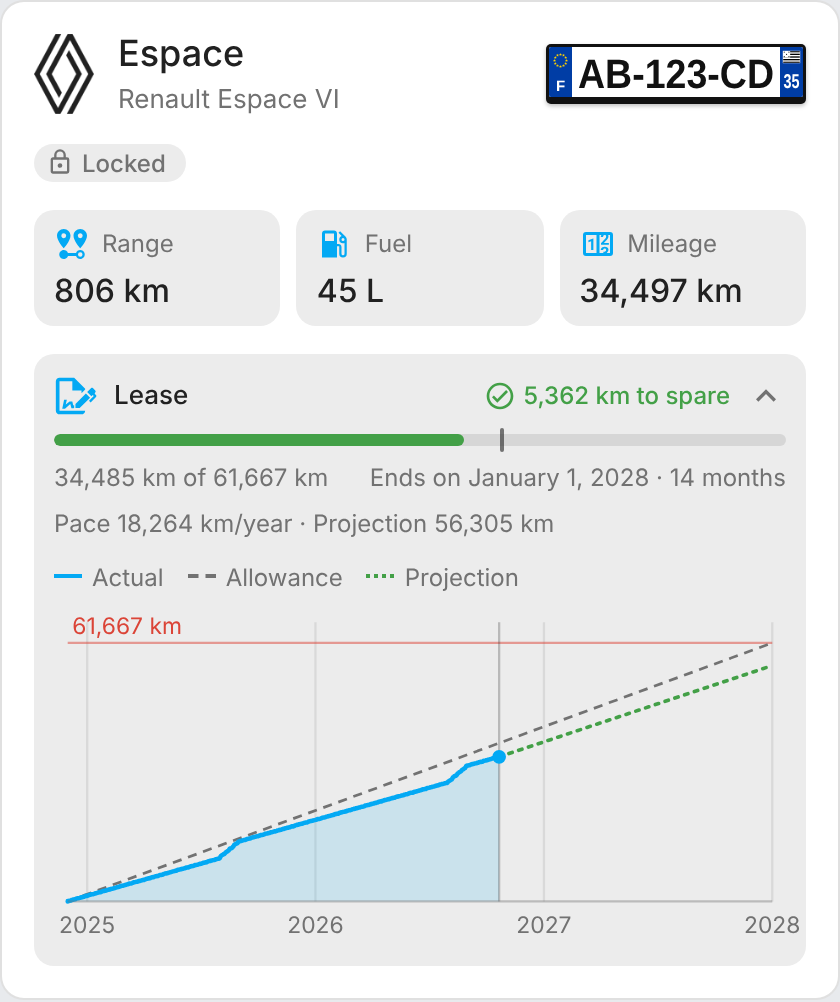
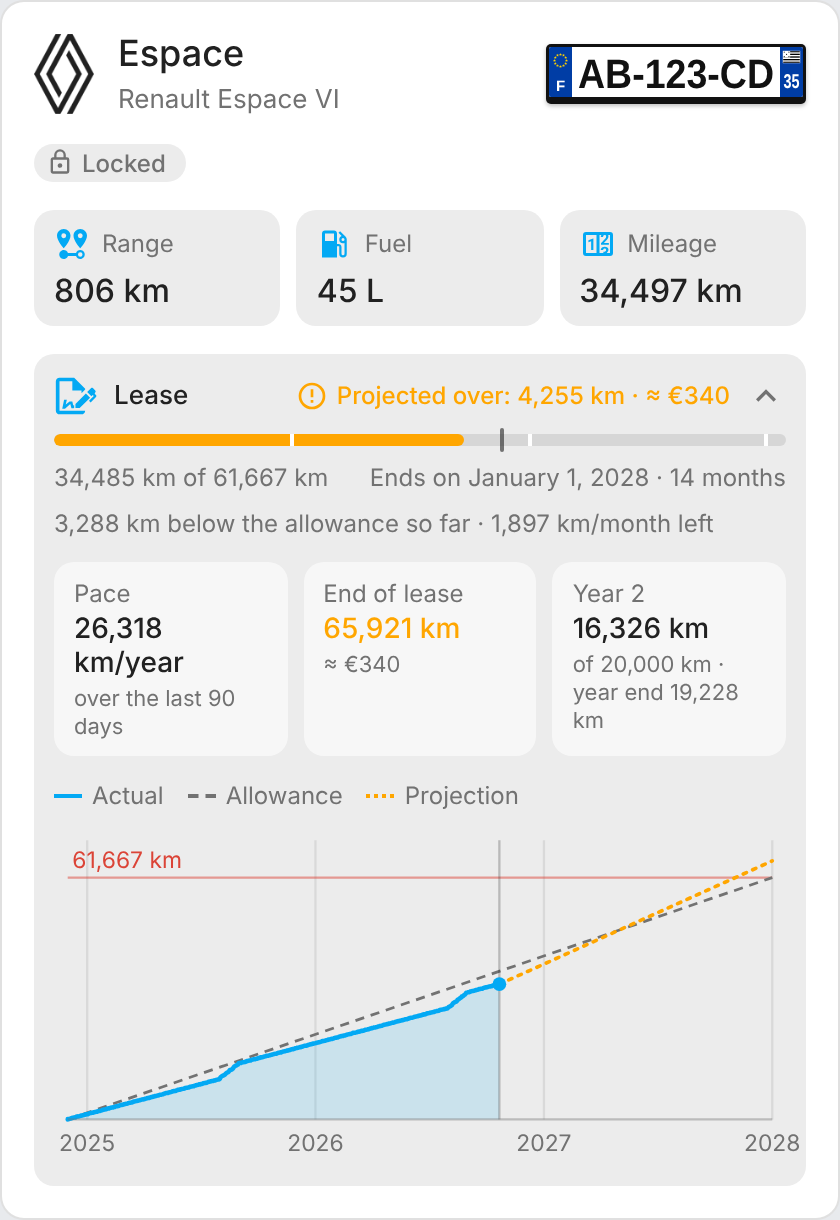
Lease: gap to allowance, monthly budget, recent-pace forecast, cost, contract year
- Folded: km above/below the allowance line today and km/month left
- lease.forecast (30 or 90 days) projects from the recent pace
- lease.extra_km_cost adds the estimated cost of the excess to the status
- Unfolded: pace, end-of-lease projection and current contract year
- Contract year ticks on the progress bar

Claude-Session: https://claude.ai/code/session_01QcG8izGUvhTVoeHTNYP8Bn

diff --git a/src/renault-card.js b/src/renault-card.js
@@ -90,6 +90,18 @@ var RnI18n = {
     lease_warn: 'Dépassement prévu : {k}',
     lease_over: 'Forfait dépassé de {k}',
     lease_early: 'Trop tôt pour une projection',
+    lease_above: '{k} au-dessus du forfait à ce jour',
+    lease_below: '{k} sous le forfait à ce jour',
+    lease_budget: 'Reste {k}/mois',
+    lease_budget_none: 'Plus de km disponibles',
+    lease_pace_lbl: 'Rythme',
+    lease_per_year: '/an',
+    lease_recent: 'sur les {n} derniers jours',
+    lease_since_start: 'depuis le début',
+    lease_projection_lbl: 'Fin de LOA',
+    lease_year: 'Année {n}',
+    lease_year_sub: 'sur {t}',
+    lease_year_proj: 'fin d\'année {p}',
     lease_chart: 'Suivi du kilométrage',
     lease_legend_actual: 'Réel',
     lease_legend_allowed: 'Forfait',
@@ -102,6 +114,12 @@ var RnI18n = {
     ed_km_per_year: 'Kilométrage par an',
     ed_start_mileage: 'Kilométrage à la livraison',
     ed_start_mileage_helper: '0 par défaut',
+    ed_forecast: 'Base de la projection',
+    ed_extra_km_cost: 'Coût du km supplémentaire',
+    ed_extra_km_cost_helper: 'Affiche le coût estimé du dépassement',
+    forecast_contract: 'Moyenne depuis le début',
+    forecast_90: '90 derniers jours',
+    forecast_30: '30 derniers jours',
   },
   en: {
     vehicle: 'Vehicle',
@@ -175,6 +193,18 @@ var RnI18n = {
     lease_warn: 'Projected over: {k}',
     lease_over: 'Allowance exceeded by {k}',
     lease_early: 'Too early for a projection',
+    lease_above: '{k} above the allowance so far',
+    lease_below: '{k} below the allowance so far',
+    lease_budget: '{k}/month left',
+    lease_budget_none: 'No kilometres left',
+    lease_pace_lbl: 'Pace',
+    lease_per_year: '/year',
+    lease_recent: 'over the last {n} days',
+    lease_since_start: 'since the start',
+    lease_projection_lbl: 'End of lease',
+    lease_year: 'Year {n}',
+    lease_year_sub: 'of {t}',
+    lease_year_proj: 'year end {p}',
     lease_chart: 'Mileage tracking',
     lease_legend_actual: 'Actual',
     lease_legend_allowed: 'Allowance',
@@ -187,6 +217,12 @@ var RnI18n = {
     ed_km_per_year: 'Mileage per year',
     ed_start_mileage: 'Mileage at delivery',
     ed_start_mileage_helper: 'Defaults to 0',
+    ed_forecast: 'Projection based on',
+    ed_extra_km_cost: 'Cost per extra km',
+    ed_extra_km_cost_helper: 'Shows the estimated cost of the excess',
+    forecast_contract: 'Average since the start',
+    forecast_90: 'Last 90 days',
+    forecast_30: 'Last 30 days',
   },
 };
 
@@ -372,27 +408,69 @@ function rnLeaseDates(lease) {
   return { start: new Date(y, mo, d), end: new Date(y, mo + months, d), months: months };
 }
 
-// Driven, allowance, pace and end-of-lease projection at time `now`.
-function rnLeaseStatus(lease, mileage, now) {
+var RN_DAY = 86400000;
+
+// Odometer at time t from the daily statistics ([day start, odometer at the end of that day]).
+function rnOdoAt(points, t) {
+  var hit = null;
+  (points || []).forEach(function (p) { if (p[0] + RN_DAY <= t + 3600000) hit = p; });
+  return hit ? hit[1] : null;
+}
+
+// Status of the lease at time `now`. points: daily mileage statistics, used for the
+// recent pace (forecast: 30 or 90 days) and the contract year figures.
+function rnLeaseStatus(lease, mileage, now, points) {
   var dates = rnLeaseDates(lease);
   if (!dates || mileage == null || isNaN(mileage)) return null;
-  var DAY = 86400000;
-  var allowed = Number(lease.km_per_year) * dates.months / 12;
+  var kmYear = Number(lease.km_per_year);
+  var allowed = kmYear * dates.months / 12;
   var startKm = Number(lease.start_mileage) || 0;
   var driven = Math.max(0, mileage - startKm);
-  var total = (dates.end - dates.start) / DAY;
-  var elapsed = Math.max(0, Math.min(total, (now - dates.start) / DAY));
+  var total = (dates.end - dates.start) / RN_DAY;
+  var elapsed = Math.max(0, Math.min(total, (now - dates.start) / RN_DAY));
+  var left = total - elapsed;
   var ended = now >= dates.end;
-  // Below 30 days the pace says little: no projection yet.
-  var projected = ended ? driven : (elapsed >= 30 ? driven / elapsed * total : null);
+  var expected = total ? allowed * elapsed / total : 0;
+
+  // Daily rate: whole contract average, or the last 30 / 90 days from the statistics.
+  // Below 30 days of contract the pace says little: no projection yet.
+  var rate = elapsed >= 30 ? driven / elapsed : null, recent = false;
+  var days = Number(lease.forecast);
+  if ((days === 30 || days === 90) && elapsed >= days && points && points.length) {
+    var then = rnOdoAt(points, now - days * RN_DAY);
+    if (then != null && mileage >= then) { rate = (mileage - then) / days; recent = true; }
+  }
+  var projected = ended ? driven : (rate != null ? driven + rate * left : null);
+
+  // Contract year: runs from the start date, the last one ends with the lease.
+  var at = function (months) { return new Date(dates.start.getFullYear(), dates.start.getMonth() + months, dates.start.getDate()); };
+  var y = 0;
+  while (12 * (y + 1) < dates.months && now >= at(12 * (y + 1)).getTime()) y++;
+  var ys = at(12 * y), ye = at(Math.min(12 * (y + 1), dates.months));
+  var year = null;
+  var yStartKm = y === 0 ? startKm : rnOdoAt(points, ys.getTime());
+  if (yStartKm != null) {
+    var yMonths = Math.min(12 * (y + 1), dates.months) - 12 * y;
+    var yDriven = Math.max(0, mileage - yStartKm);
+    var yLeft = Math.max(0, (ye - now) / RN_DAY);
+    year = {
+      index: y + 1, start: ys, end: ye, allowed: kmYear * yMonths / 12, driven: yDriven,
+      projected: rate != null && !ended ? yDriven + rate * yLeft : null,
+    };
+  }
+  var budget = !ended && left > 0 ? (allowed - driven) / (left / 30.44) : null;
+
   var state = 'ok';
   if (driven > allowed) state = 'over';
   else if (projected != null && projected > allowed) state = 'warn';
+  var cost = Number(lease.extra_km_cost) || 0;
+  var excess = state === 'over' ? (ended ? driven : Math.max(driven, projected || 0)) - allowed : state === 'warn' ? projected - allowed : 0;
   return {
-    start: dates.start, end: dates.end, allowed: allowed, startKm: startKm, driven: driven, ended: ended,
-    expected: total ? allowed * elapsed / total : 0, elapsedRatio: total ? elapsed / total : 0,
-    pace: elapsed >= 30 ? driven / elapsed * 365.25 : null, projected: projected, state: state,
-    monthsLeft: Math.max(0, Math.round((dates.end - now) / DAY / 30.44)),
+    start: dates.start, end: dates.end, months: dates.months, allowed: allowed, startKm: startKm, driven: driven, ended: ended,
+    expected: expected, deviation: driven - expected, elapsedRatio: total ? elapsed / total : 0,
+    rate: rate, recent: recent, pace: rate != null ? rate * 365.25 : null, projected: projected, state: state,
+    budget: budget, year: year, excess: excess, cost: cost && excess > 0 ? excess * cost : null,
+    monthsLeft: Math.max(0, Math.round(left / 30.44)),
   };
 }
 
@@ -754,9 +832,24 @@ class RenaultCard extends HTMLElement {
 
   _km(n) { return this._fmtNum(Math.round(n)) + ' km'; }
 
+  _money(v) {
+    var cur = (this._hass.config && this._hass.config.currency) || 'EUR';
+    try { return new Intl.NumberFormat(this._lang(), { style: 'currency', currency: cur, maximumFractionDigits: 0 }).format(v); }
+    catch (e) { return this._fmtNum(v) + ' ' + cur; }
+  }
+
+  _leaseHist4(entityId, start) {
+    var h = this._leaseHist;
+    return h && h.key === entityId + '|' + start.getTime() ? h.points : null;
+  }
+
   _leaseHtml(ent) {
     var lease = this._config.lease;
-    var st = rnLeaseStatus(lease, this._num(ent.mileage), Date.now());
+    var dates = rnLeaseDates(lease);
+    if (!dates || !this._avail(ent.mileage)) return '';
+    // The statistics feed the chart, the recent pace and the contract year: fetched once an hour.
+    this._leaseFetch(dates.start, ent.mileage);
+    var st = rnLeaseStatus(lease, this._num(ent.mileage), Date.now(), this._leaseHist4(ent.mileage, dates.start));
     if (!st) return '';
     var color = st.state === 'over' ? 'var(--error-color, #db4437)' : st.state === 'warn' ? 'var(--warning-color, #ffa600)' : 'var(--success-color, #43a047)';
     var icon = st.state === 'ok' ? 'mdi:check-circle-outline' : 'mdi:alert-circle-outline';
@@ -765,34 +858,68 @@ class RenaultCard extends HTMLElement {
     else if (st.state === 'warn') status = this._t('lease_warn', { k: this._km(st.projected - st.allowed) });
     else if (st.projected != null) status = this._t('lease_ok_margin', { k: this._km(st.allowed - st.projected) });
     else status = this._t('lease_ok');
+    if (st.cost != null) status += ' · ≈ ' + this._money(st.cost);
     var endTxt = st.end.toLocaleDateString(this._lang(), { day: 'numeric', month: 'long', year: 'numeric' });
+
+    // Folded: deviation from the allowance line today, and the monthly budget left.
     var details = [];
-    if (st.pace != null && !st.ended) details.push(this._t('lease_pace', { p: this._km(st.pace) }));
-    if (st.projected != null && !st.ended) details.push(this._t('lease_projection', { p: this._km(st.projected) }));
-    if (st.projected == null) details.push(this._t('lease_early'));
+    if (!st.ended) {
+      var dev = Math.round(st.deviation);
+      details.push(this._t(dev > 0 ? 'lease_above' : 'lease_below', { k: this._km(Math.abs(dev)) }));
+      if (st.budget != null) details.push(st.budget > 0 ? this._t('lease_budget', { k: this._km(st.budget) }) : this._t('lease_budget_none'));
+    }
     var open = !!this._leaseOpen;
     var pct = st.allowed ? st.driven / st.allowed * 100 : 0;
     var marker = Math.max(0, Math.min(100, st.elapsedRatio * 100));
+    // Contract year ticks on the bar.
+    var ticks = '';
+    for (var m = 12; m < st.months; m += 12) ticks += '<span class="lease-tick" style="left:' + (m / st.months * 100).toFixed(1) + '%"></span>';
     return '<div class="lease lease-' + st.state + '">' +
       '<div class="lease-head" data-lease-toggle role="button" tabindex="0" aria-expanded="' + open + '">' +
       '<ha-icon class="lease-icon" icon="mdi:file-sign"></ha-icon><span class="plan-title">' + this._t('lease') + '</span>' +
       '<span class="lease-status" style="color:' + color + '"><ha-icon icon="' + icon + '"></ha-icon>' + rnEsc(status) + '</span>' +
       '<ha-icon class="chev" icon="' + (open ? 'mdi:chevron-up' : 'mdi:chevron-down') + '"></ha-icon></div>' +
-      '<div class="lease-bar">' + this._bar(pct, color) + '<span class="lease-mark" style="left:' + marker.toFixed(1) + '%"></span></div>' +
+      '<div class="lease-bar">' + this._bar(pct, color) + ticks + '<span class="lease-mark" style="left:' + marker.toFixed(1) + '%"></span></div>' +
       '<div class="plan-info"><span>' + rnEsc(this._t('lease_driven', { d: this._km(st.driven), t: this._km(st.allowed) })) + '</span>' +
       '<span>' + rnEsc(this._t('lease_ends', { d: endTxt }) + ' · ' + (st.ended ? this._t('lease_ended') : this._t('lease_months_left', { n: st.monthsLeft }))) + '</span></div>' +
       (details.length ? '<div class="plan-info"><span>' + rnEsc(details.join(' · ')) + '</span></div>' : '') +
-      (open ? this._leaseChart(st, ent.mileage) : '') + '</div>';
+      (open ? this._leaseDetails(st) + this._leaseChart(st, ent.mileage) : '') + '</div>';
+  }
+
+  _leaseFig(label, value, sub, warn) {
+    return '<div class="fig' + (warn ? ' warn' : '') + '"><span class="lbl">' + rnEsc(label) + '</span><span class="val">' + rnEsc(value) + '</span>' +
+      (sub ? '<span class="sub">' + rnEsc(sub) + '</span>' : '') + '</div>';
+  }
+
+  _leaseDetails(st) {
+    var figs = [];
+    if (st.pace != null && !st.ended) {
+      figs.push(this._leaseFig(this._t('lease_pace_lbl'), this._km(st.pace) + this._t('lease_per_year'),
+        st.recent ? this._t('lease_recent', { n: Number(this._config.lease.forecast) }) : this._t('lease_since_start')));
+    }
+    if (st.projected != null && !st.ended) {
+      figs.push(this._leaseFig(this._t('lease_projection_lbl'), this._km(st.projected),
+        st.cost != null ? '≈ ' + this._money(st.cost) : null, st.projected > st.allowed));
+    } else if (st.projected == null) {
+      figs.push(this._leaseFig(this._t('lease_projection_lbl'), '—', this._t('lease_early')));
+    }
+    if (st.year && !st.ended) {
+      var yr = st.year;
+      figs.push(this._leaseFig(this._t('lease_year', { n: yr.index }), this._km(yr.driven),
+        this._t('lease_year_sub', { t: this._km(yr.allowed) }) + (yr.projected != null ? ' · ' + this._t('lease_year_proj', { p: this._km(yr.projected) }) : ''),
+        (yr.projected || yr.driven) > yr.allowed));
+    }
+    return figs.length ? '<div class="figs">' + figs.join('') + '</div>' : '';
   }
 
   // Daily mileage from the long-term statistics (kept forever by the recorder), cached for an hour.
-  _leaseFetch(st, entityId) {
-    var key = entityId + '|' + st.start.getTime();
+  _leaseFetch(start, entityId) {
+    var key = entityId + '|' + start.getTime();
     if (!this._hass.callWS || (this._leaseHist && this._leaseHist.key === key && Date.now() - this._leaseHist.at < 3600000)) return;
     if (this._leaseFetching === key) return;
     this._leaseFetching = key;
     this._hass.callWS({
-      type: 'recorder/statistics_during_period', start_time: st.start.toISOString(), end_time: new Date().toISOString(),
+      type: 'recorder/statistics_during_period', start_time: start.toISOString(), end_time: new Date().toISOString(),
       statistic_ids: [entityId], period: 'day', types: ['state'],
     }).then((res) => {
       var rows = (res && res[entityId]) || [];
@@ -809,8 +936,7 @@ class RenaultCard extends HTMLElement {
   }
 
   _leaseChart(st, entityId) {
-    this._leaseFetch(st, entityId);
-    var hist = this._leaseHist && this._leaseHist.key === entityId + '|' + st.start.getTime() ? this._leaseHist.points : null;
+    var hist = this._leaseHist4(entityId, st.start);
     var now = Date.now();
     var t0 = st.start.getTime(), t1 = st.end.getTime();
     var W = 320, H = 150, L = 6, R = 6, T = 8, B = 20;
@@ -914,6 +1040,13 @@ class RenaultCard extends HTMLElement {
       '.lease-bar { position: relative; }' +
       '.lease .bar { background: color-mix(in srgb, var(--secondary-text-color) 18%, transparent); }' +
       '.lease-mark { position: absolute; top: -3px; width: 2px; height: 12px; margin-left: -1px; border-radius: 1px; background: var(--primary-text-color); opacity: 0.6; }' +
+      '.lease-tick { position: absolute; top: 0; width: 2px; height: 6px; margin-left: -1px; background: var(--card-background-color, #fff); }' +
+      '.figs { display: grid; grid-template-columns: repeat(auto-fit, minmax(110px, 1fr)); gap: 8px; padding-top: 4px; }' +
+      '.fig { display: flex; flex-direction: column; gap: 2px; padding: 8px 10px; border-radius: 10px; min-width: 0;' +
+        ' background: color-mix(in srgb, var(--card-background-color, #fff) 60%, transparent); }' +
+      '.fig .val { font-size: 14px; white-space: normal; }' +
+      '.fig .sub { font-size: 11px; line-height: 1.3; color: var(--secondary-text-color); }' +
+      '.fig.warn .val { color: var(--warning-color, #ffa600); }' +
       '.lease-graph { display: flex; flex-direction: column; gap: 6px; padding-top: 4px; }' +
       '.legend { display: flex; flex-wrap: wrap; gap: 4px 12px; font-size: 12px; color: var(--secondary-text-color); }' +
       '.legend span { display: inline-flex; align-items: center; gap: 5px; }' +
@@ -1051,7 +1184,17 @@ class RenaultCardEditor extends HTMLElement {
               { name: 'km_per_year', selector: { number: { min: 0, max: 100000, step: 1000, mode: 'box', unit_of_measurement: 'km' } } },
             ],
           },
-          { name: 'start_mileage', selector: { number: { min: 0, max: 1000000, step: 1, mode: 'box', unit_of_measurement: 'km' } } },
+          {
+            type: 'grid', name: '', schema: [
+              { name: 'start_mileage', selector: { number: { min: 0, max: 1000000, step: 1, mode: 'box', unit_of_measurement: 'km' } } },
+              { name: 'extra_km_cost', selector: { number: { min: 0, max: 5, step: 0.01, mode: 'box', unit_of_measurement: '€/km' } } },
+            ],
+          },
+          {
+            name: 'forecast', selector: { select: { mode: 'dropdown', options: [
+              { value: 'contract', label: t('forecast_contract') }, { value: '90', label: t('forecast_90') }, { value: '30', label: t('forecast_30') },
+            ] } },
+          },
         ],
       },
       {
@@ -1081,7 +1224,9 @@ class RenaultCardEditor extends HTMLElement {
       var txt = rnT(lang, key);
       return txt === key ? undefined : txt;
     };
-    this._form.data = Object.assign({}, RN_EDITOR_DEFAULTS, this._config);
+    var data = Object.assign({}, RN_EDITOR_DEFAULTS, this._config);
+    if (data.lease) data.lease = Object.assign({}, data.lease, { forecast: data.lease.forecast ? String(data.lease.forecast) : 'contract' });
+    this._form.data = data;
   }
 
   _valueChanged(ev) {
@@ -1102,6 +1247,8 @@ class RenaultCardEditor extends HTMLElement {
     if (value.lease) {
       var l = Object.assign({}, value.lease);
       Object.keys(l).forEach(function (k) { if (l[k] === '' || l[k] === null || l[k] === undefined) delete l[k]; });
+      if (l.forecast === 'contract') delete l.forecast;
+      else if (l.forecast) l.forecast = Number(l.forecast);
       if (Object.keys(l).length) value.lease = l; else delete value.lease;
     }
     if (!value.show_data_plan && value.show_data_plan !== undefined) delete value.data_plan_device_id;

diff --git a/README.md b/README.md
@@ -25,7 +25,7 @@ Pick the vehicle, the card finds all its entities by itself.
 - Action buttons for every button of the vehicle (horn, flash lights, air conditioning, start/stop charge), pressed with a confirmation tap, and the charge mode picker for electric cars
 - Renault logo next to the name, black on light themes and white on dark themes
 - Built-in pictures for the Espace and the Captur, or your own picture, and a French licence plate drawn like the real one (EU band, department, Breton flag for Brittany)
-- Optional **lease tracking** (LOA): mileage driven against the allowance, pace and end-of-lease projection, always shown as a status, with a mileage chart folded by default
+- Optional **lease tracking** (LOA): mileage driven against the allowance, gap to the allowance today, kilometres per month left, end-of-lease projection (average or last 30 / 90 days) and estimated cost of the excess, always shown as a status; pace, contract year figures and a mileage chart folded by default
 - Optional **Orange Internet On the move** section: data left, percentage, renewal or expiry date
 - Automatic entity discovery from the device (English or French entity IDs)
 - Visual editor in the dashboard UI (no YAML needed)
@@ -98,7 +98,11 @@ Set the lease start date, its duration in months and the yearly mileage allowanc
 - **orange**: at the current pace, you will go over the allowance (projected excess)
 - **red**: the allowance is already exceeded
 
-The projection starts after 30 days. Tap the section header to unfold the chart: actual mileage, linear allowance and projection, from the long-term statistics of the mileage sensor (kept by Home Assistant's recorder for as long as you have them). The chart is folded by default.
+Below the bar (ticks mark the contract years): the kilometres above or below the allowance line today, and the kilometres per month left until the end of the lease. With `extra_km_cost`, the status adds the estimated cost of the excess.
+
+The projection starts after 30 days. It uses the average since the start of the lease, or with `forecast: 90` (or `30`) the pace of the last 90 (or 30) days, which reacts faster to a change of habits.
+
+Tap the section header to unfold the details: pace, end-of-lease projection, the current contract year (contract years run from the start date) with its allowance and year-end projection, and the chart of actual mileage, allowance and projection. The history comes from the long-term statistics of the mileage sensor, kept by Home Assistant's recorder; it is fetched once an hour. The details are folded by default.
 
 ```yaml
 lease:
@@ -106,6 +110,8 @@ lease:
   duration: 37        # months
   km_per_year: 20000
   start_mileage: 12   # optional, odometer at delivery
+  forecast: 90        # optional: 90 or 30 days, average since the start by default
+  extra_km_cost: 0.08 # optional, per km, shows the cost of the excess
 ```
 
 Also in the visual editor, in the **Lease tracking** panel. Without `lease`, the section is not shown.
@@ -166,7 +172,7 @@ entities:
 | `show_actions` | ❌ | `true` | Show the action buttons and charge mode |
 | `show_data_plan` | ❌ | `true` | Show the Orange Internet On the move section when a data plan is found |
 | `data_plan_device_id` | ❌ | Auto | Orange Internet On the move device; found from the vehicle model when empty |
-| `lease` | ❌ | — | Lease tracking: `start_date` (`YYYY-MM-DD`), `duration` (months) and `km_per_year` are required to show it; `start_mileage` (km at delivery) defaults to `0` |
+| `lease` | ❌ | — | Lease tracking: `start_date` (`YYYY-MM-DD`), `duration` (months) and `km_per_year` are required to show it; `start_mileage` (km at delivery) defaults to `0`; `forecast`: `90` or `30` to project from the last days (average since the start by default); `extra_km_cost`: cost per extra km |
 | `language` | ❌ | Auto | Force language: `fr` or `en` (auto-detects from HA settings) |
 | `entities` | ❌ | Auto | Override detected entities: `mileage`, `fuel_autonomy`, `fuel_quantity`, `battery_level`, `battery_autonomy`, `location` |
 

diff --git a/CHANGELOG.md b/CHANGELOG.md
@@ -1,5 +1,14 @@
 # Changelog
 
+## 1.10.0
+
+### What's new
+- Lease: the folded section now shows how far above or below the allowance line you are today, and the kilometres per month left until the end of the lease.
+- Lease: optional `lease.forecast: 90` or `30` projects the end of the lease from the pace of the last 90 or 30 days instead of the average since the start.
+- Lease: optional `lease.extra_km_cost` (per km, in the Home Assistant currency) adds the estimated cost of the excess to the status.
+- Lease: the unfolded section shows the pace, the end-of-lease projection and the current contract year (kilometres driven against the yearly allowance, projection at the end of the contract year) above the chart.
+- Lease: contract year ticks on the progress bar.
+
 ## 1.9.1
 
 ### Development
